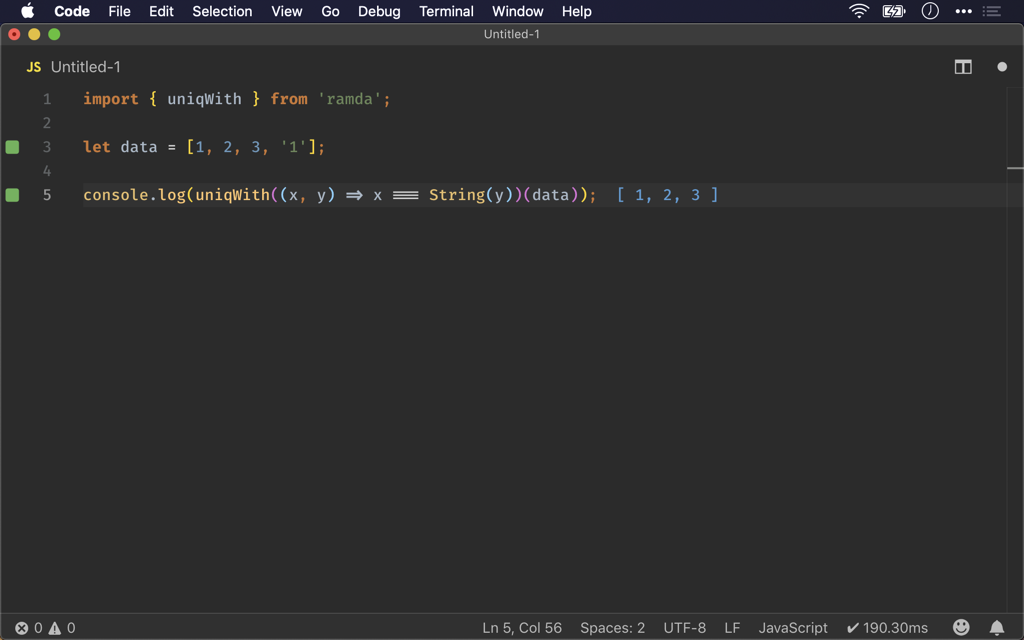
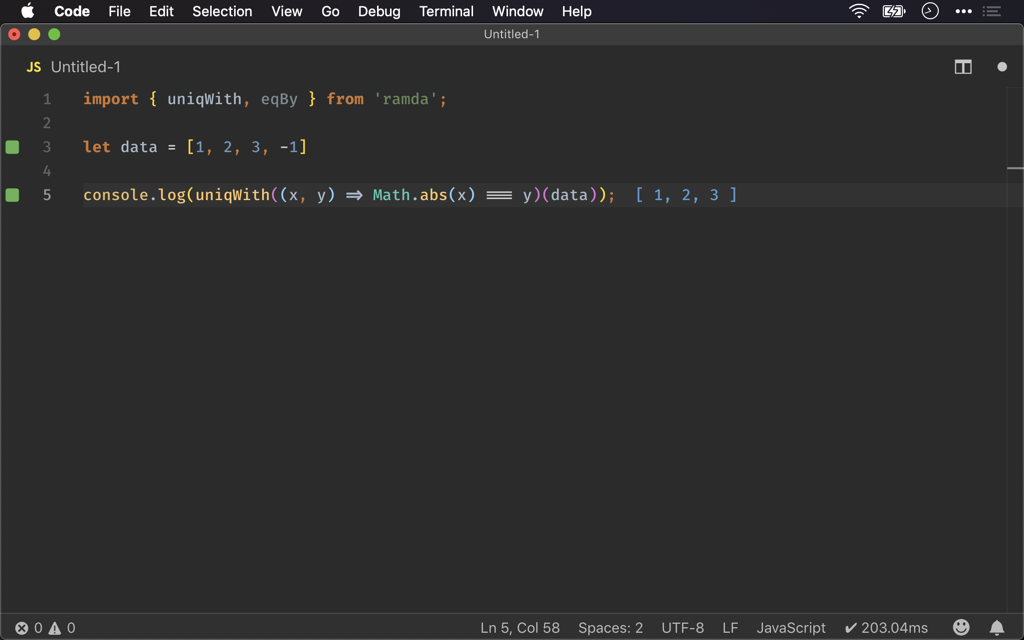
Ramda 之 uniqWith()

diff --git a/source/_posts/ramda/uniqwith.md b/source/_posts/ramda/uniqwith.md
@@ -24,12 +24,12 @@ Ramda 0.26.1
 ```javascript
 import { uniqBy } from 'ramda';
 
-let data = [1, 2, 3, '1'];
+let data = [1, 2, 3, -1];
 
-console.log(uniqBy(x => String(x))(data));
+console.log(uniqBy(x => Math.abs(x))(data));
 ```
 
-`data` 中包含 `number` `1` 與 `string` `1`，若 `number` `1` 與 `string` `1` 均視為相同而不想重複顯示，也就是我們希望結果只顯示 `[1, 2, 3]`。
+`data` 中包含 `1` 與 `-1`，若`1` 與  `-1` 均視為相同而不想重複顯示，也就是我們希望結果只顯示 `[1, 2, 3]`。
 
 > **uniqBy()**
 > `(a -> b) -> [a] -> [a]`
@@ -40,11 +40,11 @@ console.log(uniqBy(x => String(x))(data));
 ## uniqWith()
 
 ```javascript
-import { uniqWith } from 'ramda';
+import { uniqWith, eqBy } from 'ramda';
 
-let data = [1, 2, 3, '1'];
+let data = [1, 2, 3, -1]
 
-console.log(uniqWith((x, y) => x === String(y))(data));
+console.log(uniqWith((x, y) => Math.abs(x) === y)(data));
 ```
 
 我們也可以使用 `uniqWith()` 完成。
@@ -68,12 +68,12 @@ console.log(uniqWith((x, y) => x === String(y))(data));
 ```javascript
 import { uniqWith, eqBy } from 'ramda';
 
-let data = [100, 200, 300, '100'];
+let data = [1, 2, 3, -1]
 
-console.log(uniqWith(eqBy(String))(data));
+console.log(uniqWith(eqBy(Math.abs))(data));
 ```
 
-`(x, y) => x === String(y)` 可進一步由 `eqBy(String)` 化簡成 point-free。
+`(x, y) => Math.abs(x) === y` 可進一步由 `eqBy(Math.abs)` 化簡成 point-free。
 
 > **eqBy()**
 > `(a → b) → a → a → Boolean`
@@ -142,4 +142,3 @@ console.dir(uniqWith(anyPass([
 [Ramda](https://ramdajs.com), [eqBy()](https://ramdajs.com/docs/#eqBy)
 [Ramda](https://ramdajs.com), [anyPass()](https://ramdajs.com/docs/#anyPass)
 [Ramda](https://ramdajs.com), [eqProps()](https://ramdajs.com/docs/#eqProps)
-
